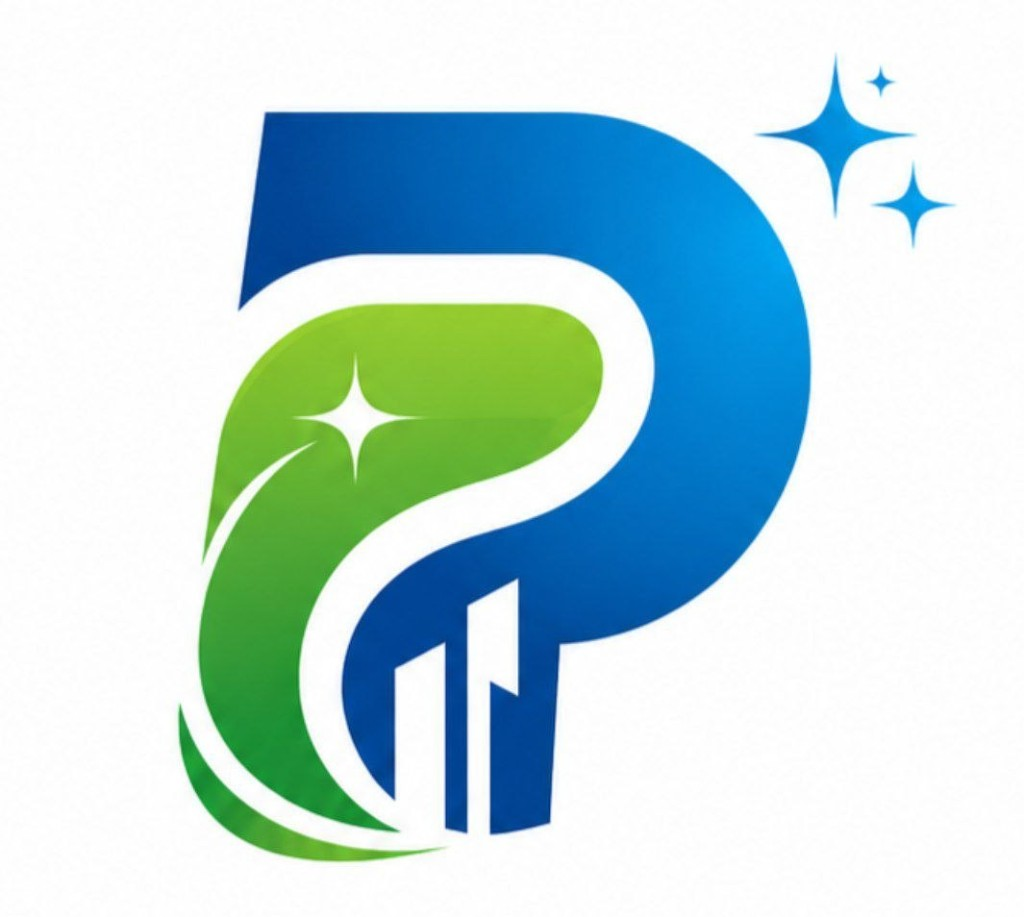
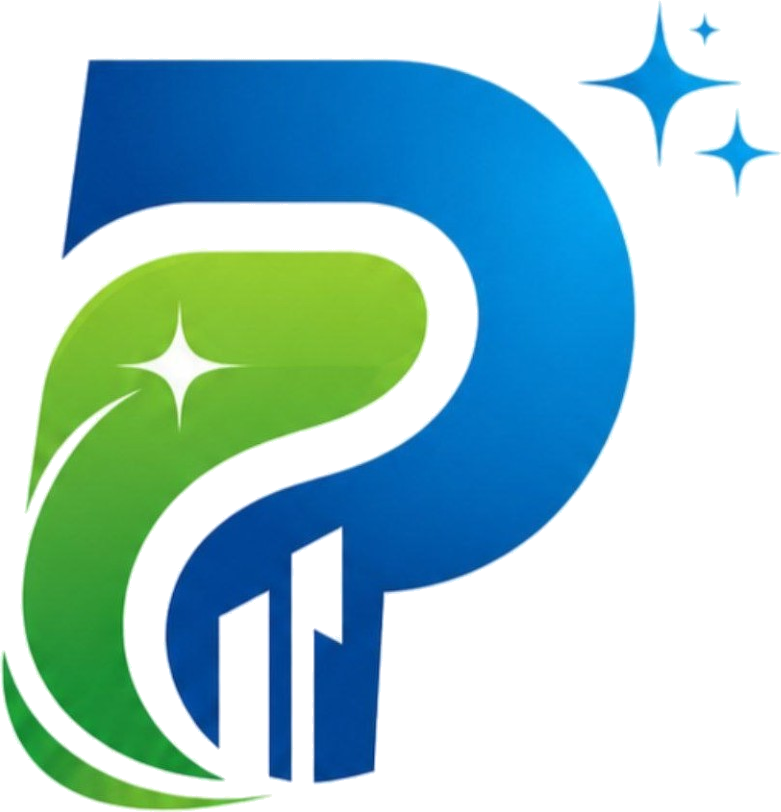
P aded to nav bar

diff --git a/src/components/shared/brand-logo.tsx b/src/components/shared/brand-logo.tsx
@@ -7,12 +7,13 @@ interface BrandLogoProps {
   className?: string;
   /** Smaller lockup for footer / compact headers. */
   compact?: boolean;
-  /** Larger lockup for the home hero. */
+  /** Larger wordmark-only lockup for the home hero. */
   hero?: boolean;
   /** Wrap in a home link — off for decorative hero usage. */
   linked?: boolean;
 }
 
+const ICON = "/brand/perfecto-icon.png";
 const WORDMARK = "/brand/perfecto-wordmark.png";
 const ALT = "Perfecto — Clean Spaces. Perfect Impression.";
 
@@ -22,27 +23,46 @@ export function BrandLogo({
   hero,
   linked = true,
 }: BrandLogoProps) {
-  const image = (
-    <Image
-      src={WORDMARK}
-      alt={ALT}
-      width={hero ? 420 : compact ? 140 : 180}
-      height={hero ? 90 : compact ? 32 : 40}
-      className={cn(
-        "w-auto object-contain",
-        hero ? "h-12 sm:h-14 md:h-16" : compact ? "h-7" : "h-9",
+  const content = (
+    <>
+      {!hero && (
+        <Image
+          src={ICON}
+          alt=""
+          width={compact ? 32 : 40}
+          height={compact ? 32 : 40}
+          className={cn("shrink-0 object-contain", compact ? "h-8 w-8" : "h-10 w-10")}
+          priority={!compact}
+          aria-hidden
+        />
       )}
-      priority={hero || !compact}
-    />
+      <Image
+        src={WORDMARK}
+        alt={ALT}
+        width={hero ? 420 : compact ? 140 : 180}
+        height={hero ? 90 : compact ? 32 : 40}
+        className={cn(
+          "w-auto object-contain",
+          hero ? "h-12 sm:h-14 md:h-16" : compact ? "h-7" : "h-9",
+        )}
+        priority={hero || !compact}
+      />
+    </>
+  );
+
+  const wrapperClass = cn(
+    "inline-flex items-center",
+    !hero && "gap-2.5",
+    className,
   );
 
   if (!linked) {
-    return <div className={className}>{image}</div>;
+    return <div className={wrapperClass}>{content}</div>;
   }
 
   return (
-    <Link href="/" className={cn("inline-flex items-center", className)}>
-      {image}
+    <Link href="/" className={wrapperClass}>
+      {content}
     </Link>
   );
 }